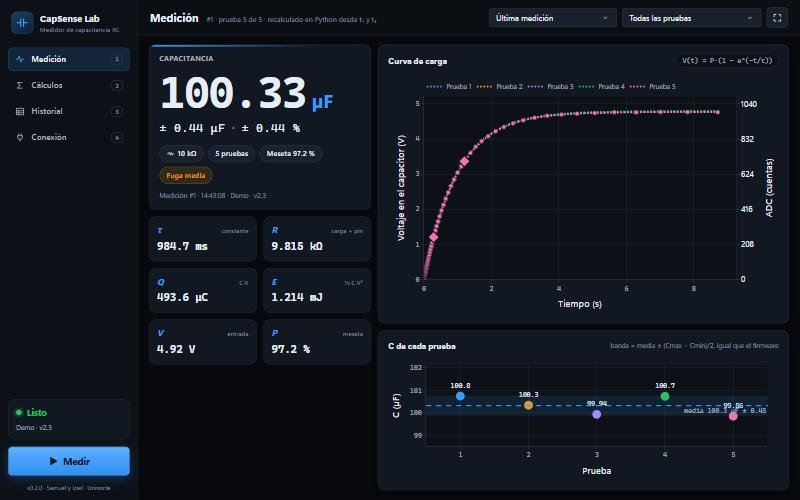
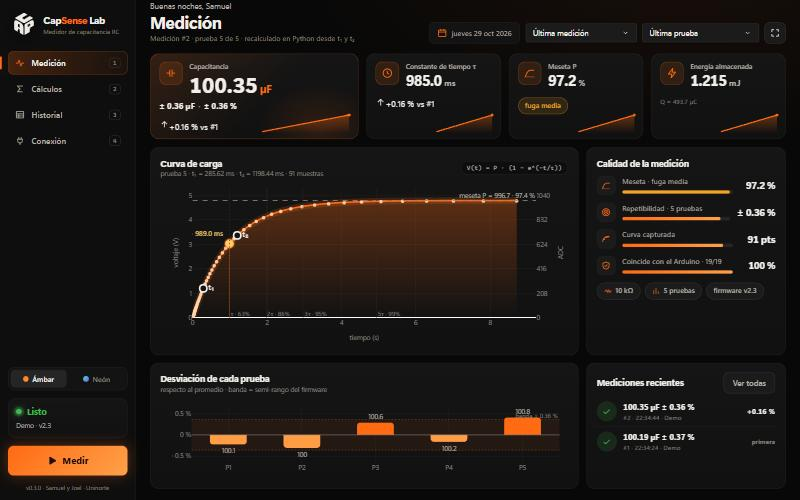
Documenta el nuevo diseño y publica la versión 0.4.0

diff --git a/README.md b/README.md
@@ -1,10 +1,14 @@
+<p align="center"><img src="src/capsense/ui/assets/logo-cap-fondo.svg" width="120" alt="Logo de CapSense Lab: cubo isométrico con las letras C, A y P"></p>
+
 # CapSense Lab
 
 Medidor de capacitancia RC (1 µF a 1000 µF) con Arduino Uno, y una aplicación de escritorio en Python para mostrar en proyector el resultado, la curva de carga y los cálculos paso a paso.
 
 Proyecto de Samuel y Joel (Ingeniería de Sistemas, Universidad del Norte) para la GeoExpo de Física.
 
-![Aplicación en modo demo: barra lateral, resultado de 100.33 µF, curva de carga y C de cada prueba](docs/img/dashboard.jpg)
+![Tema Ámbar: tarjetas con mini-gráficas, curva de carga con brillo, calidad de la medición, desviación por prueba y mediciones recientes](docs/img/dashboard.jpg)
+
+![Tema Neón, la misma medición](docs/img/dashboard-neon.jpg)
 
 ## Qué muestra
 
@@ -16,6 +20,15 @@ Proyecto de Samuel y Joel (Ingeniería de Sistemas, Universidad del Norte) para 
 ![Panel de cálculos paso a paso](docs/img/pasos.jpg)
 
 ## Diseño
+
+Dos temas que se cambian desde la barra lateral (o con `[ui] tema` en `config/capsense.toml`):
+
+- **Ámbar**: negro carbón con naranja.
+- **Neón**: azul profundo con turquesa y violeta, tarjetas tipo vidrio.
+
+El logo es un cubo isométrico con las letras **C**, **A** y **P** recortadas en sus tres caras (`scripts/generar_logo.py`).
+
+La vista **Medición** muestra tarjetas con mini-gráficas y la comparación con la medición anterior, la curva de carga con brillo, un panel de *Calidad de la medición* (meseta, repetibilidad, curva capturada y coincidencia con el Arduino), la desviación de cada prueba y las mediciones recientes. **Historial** agrega un mapa de calor de repetibilidad.
 
 El estilo sigue la skill [ui-ux-pro-max](https://github.com/nextlevelbuilder/ui-ux-pro-max-skill): **Dark Mode (OLED) + Data-Dense Dashboard + Real-Time Monitoring**, con el par tipográfico *Dashboard Data* (sans para etiquetas, monoespaciada para los valores), íconos SVG en vez de emojis, estados con texto además de color, foco visible con teclado y respeto por `prefers-reduced-motion`.
 

diff --git a/CHANGELOG.md b/CHANGELOG.md
@@ -2,6 +2,18 @@
 
 Formato basado en [Keep a Changelog](https://keepachangelog.com/es-ES/1.1.0/).
 
+## [0.4.0] - 2026-10-29
+
+### Diseño
+- Logo nuevo: cubo isométrico con C, A y P recortadas en sus caras (SVG generado por `scripts/generar_logo.py`).
+- Dos temas, Ámbar (negro y naranja) y Neón (azul, turquesa y violeta), con selector en la barra lateral; se recuerda entre sesiones.
+- Vista Medición rehecha: saludo y fecha en la cabecera, tarjetas KPI con mini-gráficas y variación contra la medición anterior, curva de carga con área y brillo, panel de calidad por factores, desviación de cada prueba y mediciones recientes.
+- Historial con mapa de calor de repetibilidad.
+- La curva muestra por defecto la última prueba (la extendida).
+
+### Corregido
+- La ventana de escritorio se colgaba: pywebview recorría el objeto ventana expuesto a la página.
+
 ## [0.3.0] - 2026-10-29
 
 ### Aplicación de escritorio
